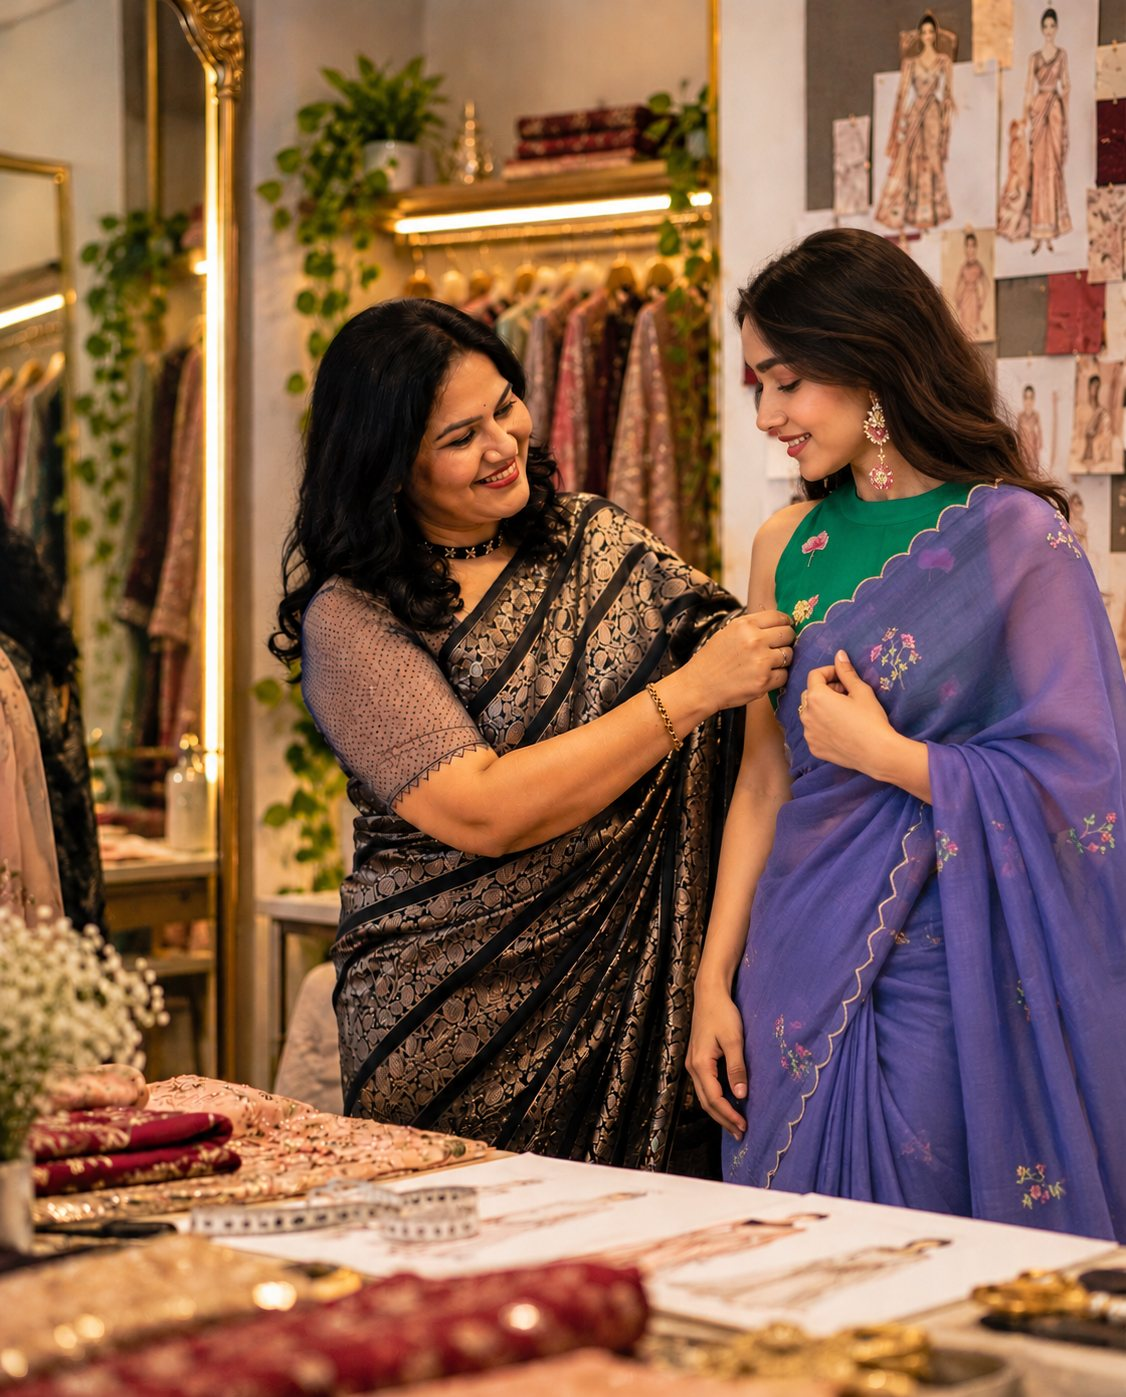
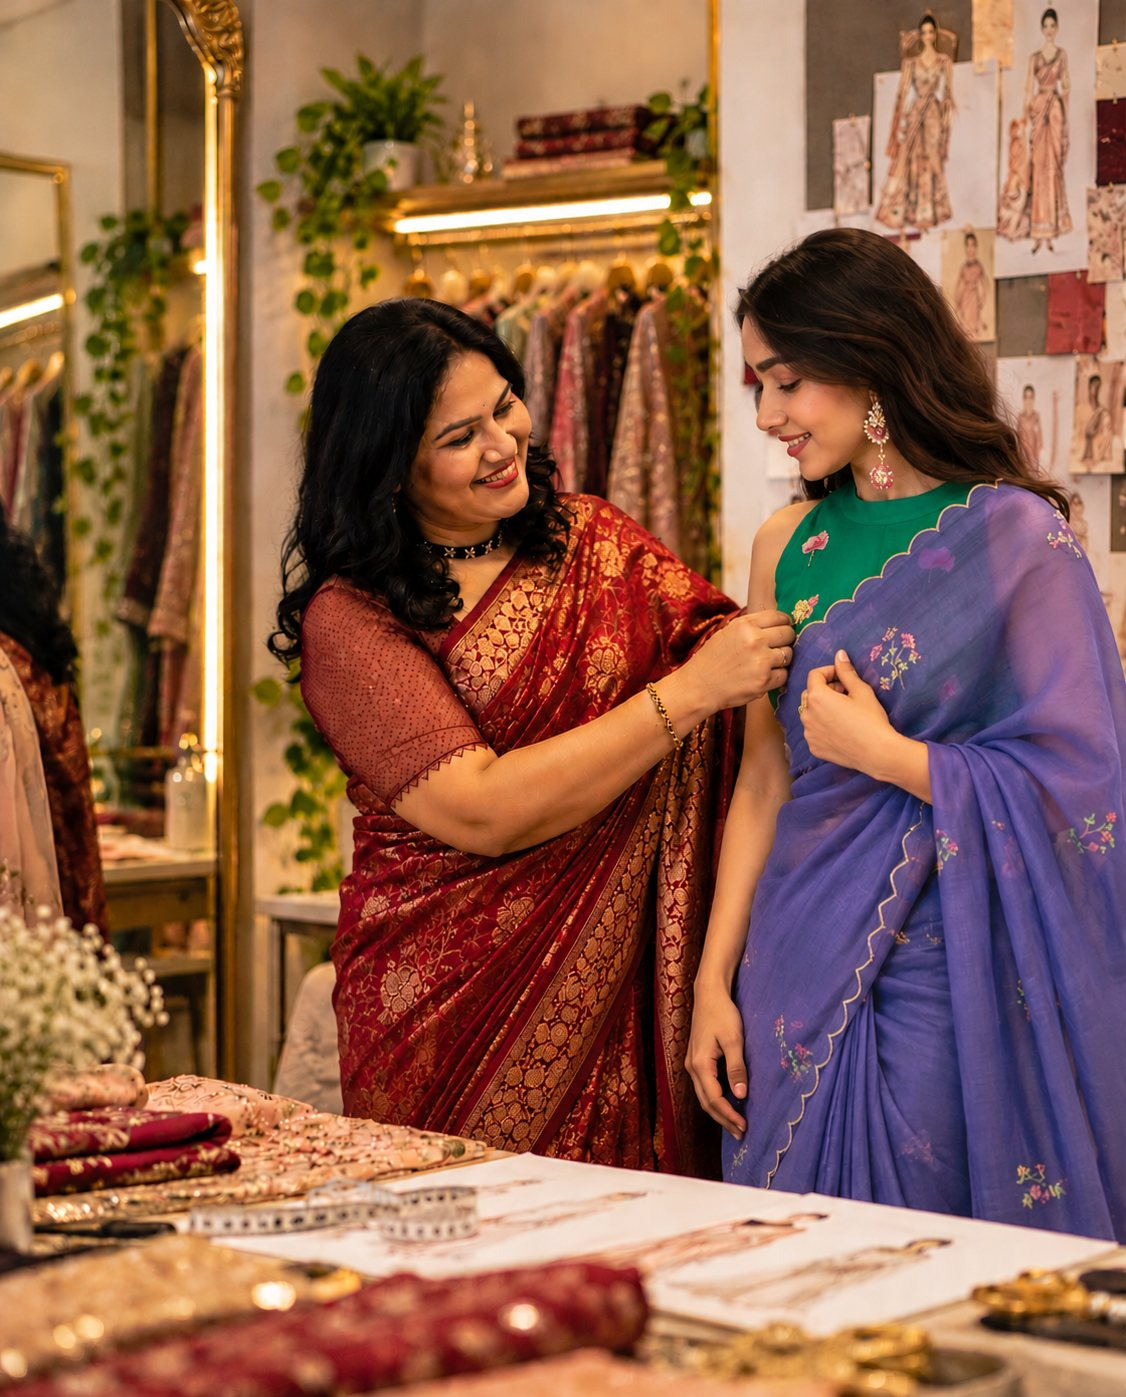
content(styling): Personal styling photo - designer in a maroon banarasi saree

diff --git a/src/components/sections/StylingSection.tsx b/src/components/sections/StylingSection.tsx
@@ -19,7 +19,7 @@ export function StylingSection({ onBook }: StylingSectionProps) {
         <div className="md:col-span-6">
           <RevealImage still
             src={images.stylist}
-            alt="A designer in a black banarasi saree fitting a lavender saree with a green blouse on a smiling client in the atelier"
+            alt="A designer in a maroon and gold banarasi saree fitting a lavender saree with a green blouse on a smiling client in the atelier"
             className="relative z-20 aspect-[4/5]" />
           
         </div>
